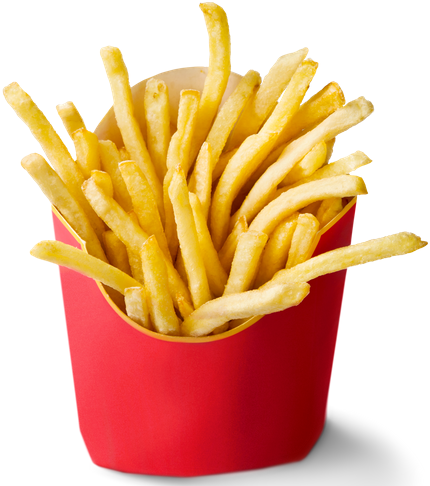
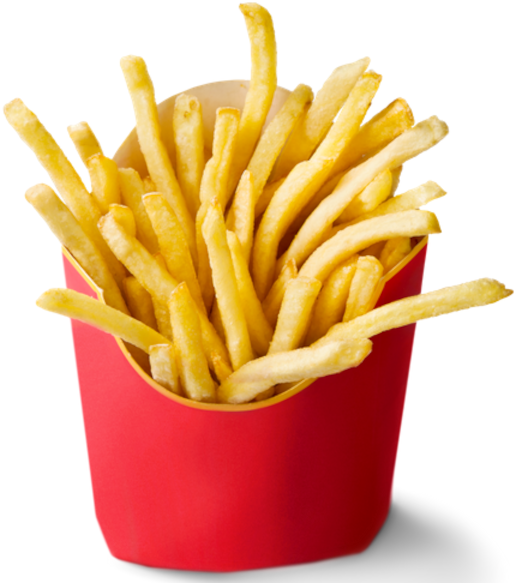
change value of size

diff --git a/lib/main.dart b/lib/main.dart
@@ -64,6 +64,17 @@ class _MyHomePageState extends State<MyHomePage> {
       body: Stack(
         children: [
           Positioned(
+            left: 20,
+            right: 20,
+            bottom: -getDeviceSize(context).height * 0.2,
+            height: getDeviceSize(context).height * 0.33,
+            child: DecoratedBox(
+              decoration: BoxDecoration(shape: BoxShape.circle, boxShadow: [
+                BoxShadow(color: Colors.brown, blurRadius: 110, offset: Offset.zero, spreadRadius: 5)
+              ]),
+            ),
+          ),
+          Positioned(
               left: 0,
               right: 0,
               top: 0,
@@ -71,33 +82,46 @@ class _MyHomePageState extends State<MyHomePage> {
               child: Container(
                 color: Colors.red,
               )),
-          PageView.builder(
-            controller: _pageController,
-            itemCount: foods.length+1 ,
-            scrollDirection: Axis.vertical,
-            itemBuilder: (context, index) {
+          ScrollConfiguration(
+            behavior: AppScrollBehavior(),
+            child: Transform.scale(
+              scale: 1.05,
+              alignment: Alignment.bottomCenter,
+              child: PageView.builder(
+                controller: _pageController,
+                itemCount: foods.length + 1,
+                scrollDirection: Axis.vertical,
+                itemBuilder: (context, index) {
+                  if (index == 0) return SizedBox.shrink();
+                  final food = foods[index - 1];
+                  final result = _currentPage - index + 1;
+                  print("_currentPage: ${_currentPage} - index: ${index} +1 = ${result}");
+                  final value = -0.3 * result + 1;
+                  final opacityValue = value.clamp(0.0, 1.0);
 
-              if (index ==0) return SizedBox.shrink();
-              final food = foods[index -1];
-              final result = _currentPage - index +1;
-              print("_currentPage: ${_currentPage} - index: ${index} +1 = ${result}" );
-              final value = -0.3 * result  +1;
-
-              print("height/3: ${MediaQuery.of(context).size.height / 3} - (1 - value): ${(1 - value).abs()}" );
-                return Transform(
-                // alignment: Alignment.bottomCenter,
-                // alignment: FractionalOffset.center,
-                transform: Matrix4.identity()
-                  ..setEntry(3, 2, 0.0001)
-                  ..translate(
-                    0.0,
-                    MediaQuery.of(context).size.height / 3* (1 - value).abs(),
-                  )
-                  ..scale(value)
-                  ,
-                child: Image.asset(food.imagePath),
-              );
-            },
+                  print(
+                      "height/3: ${MediaQuery.of(context).size.height / 3} - (1 - value): ${(1 - value).abs()}");
+                  return Padding(
+                    padding: EdgeInsets.only(bottom: 20),
+                    child: Transform(
+                      alignment: Alignment.bottomCenter,
+                      transform: Matrix4.identity()
+                        ..setEntry(3, 2, 0.0001)
+                        ..translate(
+                          0.0,
+                          getDeviceSize(context).height / 3 * (1 - value).abs(),
+                        )
+                        ..scale(value),
+                      child: Opacity(
+                          opacity: opacityValue,
+                          child: Image.asset(food.imagePath
+                          ,fit:BoxFit.fitHeight ,
+                          )),
+                    ),
+                  );
+                },
+              ),
+            ),
           )
         ],
       ),

diff --git a/lib/utils/util.dart b/lib/utils/util.dart
@@ -1,11 +1,11 @@
 import 'dart:math';
 
+import 'package:flutter/cupertino.dart';
 import 'package:foodcourt/model/food.dart';
 
 import '../data/names.dart';
 
-double _doubleInRange(Random source, num start, num end) =>
-    source.nextDouble() + (end - start) + start;
+double _doubleInRange(Random source, num start, num end) => source.nextDouble() + (end - start) + start;
 final foods = List.generate(
   names.length,
   (index) => Food(
@@ -14,3 +14,5 @@ final foods = List.generate(
     _doubleInRange(Random(), 3, 7),
   ),
 );
+
+Size getDeviceSize(BuildContext context) => MediaQuery.of(context).size;
